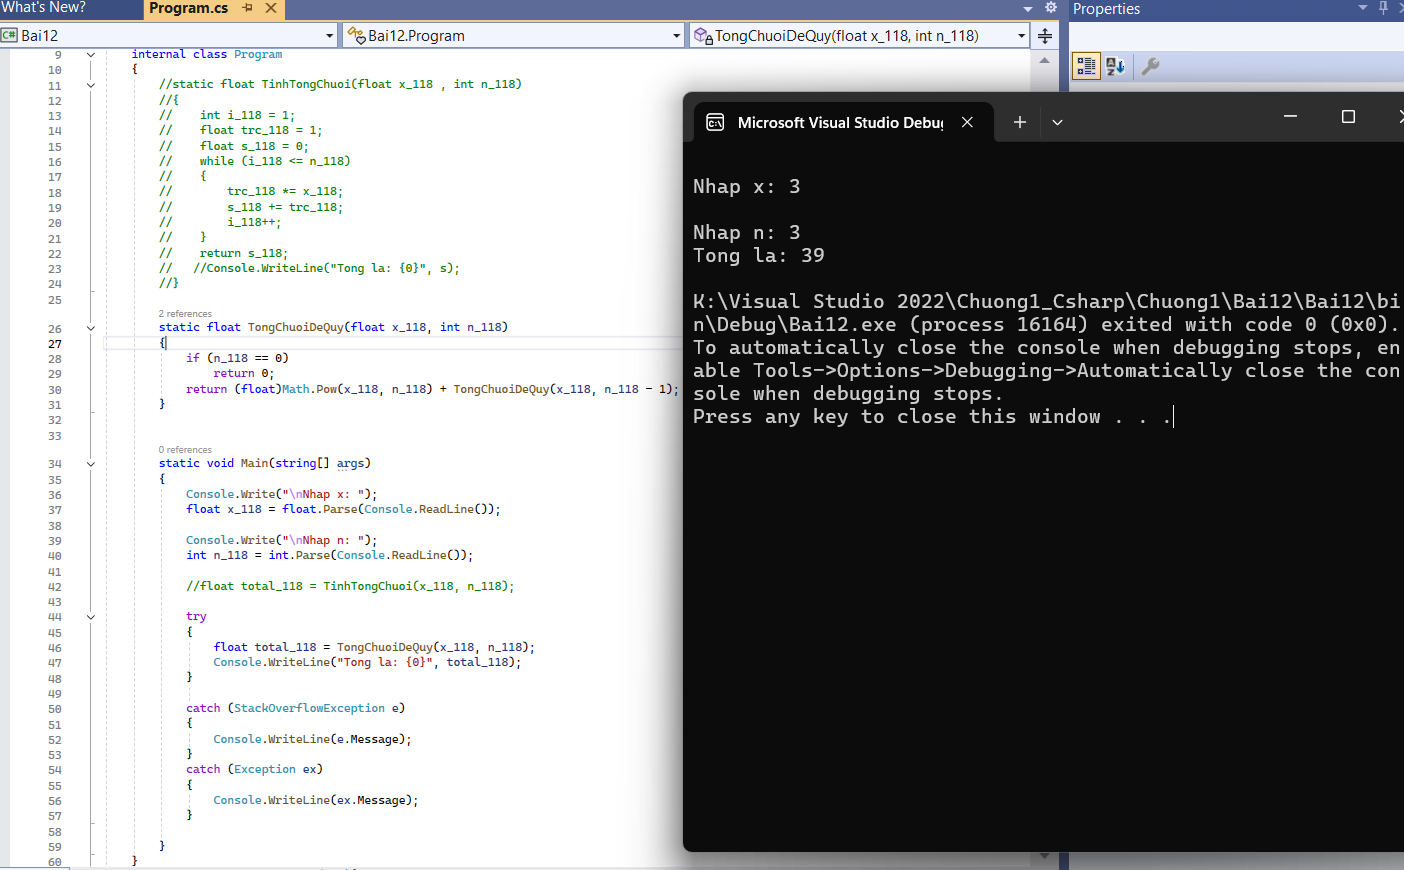
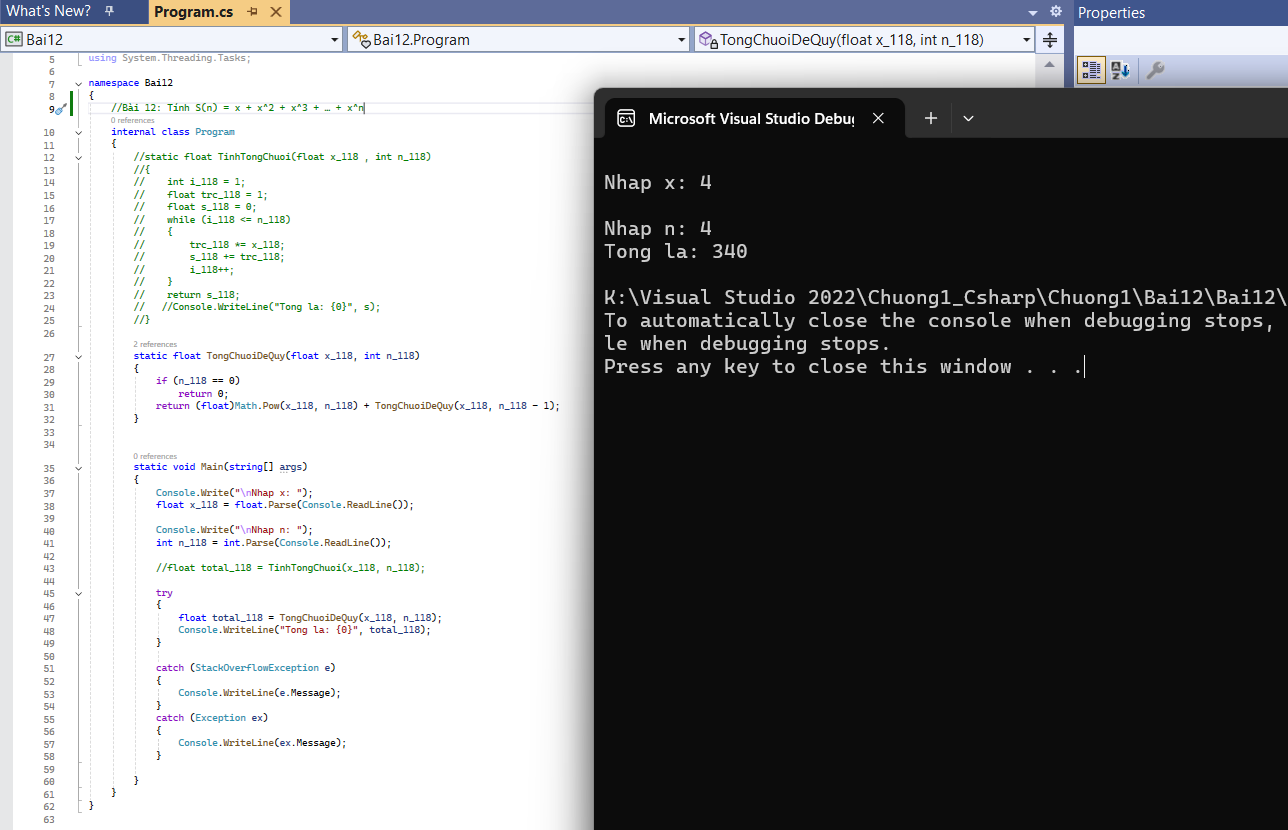
them de bai va sua anh chup code voi console

Changed region(s): [[0.0, 0.0, 1.0, 1.0], [0.3106, 0.1807, 0.3416, 0.2108]]

diff --git a/Bai12/Bai12/Program.cs b/Bai12/Bai12/Program.cs
@@ -6,6 +6,7 @@ using System.Threading.Tasks;
 
 namespace Bai12
 {
+    //Bài 12: Tính S(n) = x + x^2 + x^3 + … + x^n
     internal class Program
     {
         //static float TinhTongChuoi(float x_118 , int n_118)
